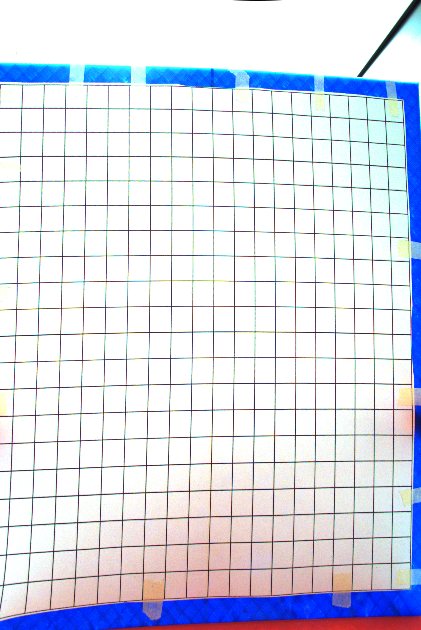
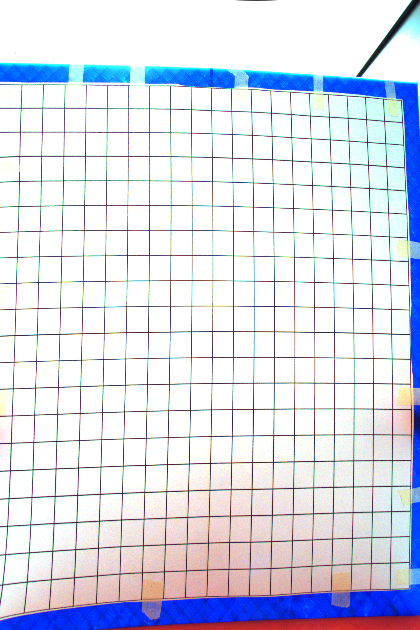
feat: draw in dots

diff --git a/ocv-calib.py b/ocv-calib.py
@@ -130,7 +130,7 @@ print(translation_vectors)
 # (2) ENTZERRUNG EINES EINGABE BILDES
 # -----------------------------------
 
-image_name = "240500013_markings_rotated.png" # 240500013_markings_rotated.png
+image_name = "240500013_markings.png" # vorher 240500013_markings_rotated.png
 img_path = os.path.join(in_folder, image_name)
 print(img_path)
 
@@ -237,7 +237,7 @@ def get_multiple_projections(points_with_depth):
 # Beispielaufruf für die Funktion get_multiple_projections
 points_with_depth = [(2090, 1940, 171), (211, 344, 171)]
 # Ausgabe bereits hier
-multiple_points_result = get_multiple_projections(points_with_depth)
+#multiple_points_result = get_multiple_projections(points_with_depth)
 
 # --------------------------------------------------------------
 
@@ -283,5 +283,44 @@ extracted_uv_points = get_uv_points_from_reknow_file(file_path)
 # ***
 
 # Berechnung der Projektionen
-#calculated_projections = get_multiple_projections(extracted_uv_points)
+calculated_projections = get_multiple_projections(extracted_uv_points)
 
+
+
+
+
+
+
+
+
+
+# Rückprojektion der 3D-Punkte auf 2D
+def project_points(points, intrinsic, distortion):
+    rvec = tvec = np.array([0.0, 0.0, 0.0])
+    projected_points, _ = cv2.projectPoints(points, rvec, tvec, intrinsic, distortion)
+    return projected_points
+
+# 3D-Punkte in ein NumPy-Array umwandeln
+points_3d = np.array(calculated_projections)
+
+# 3D-Punkte auf 2D-Punkte projizieren
+projected_points = project_points(points_3d, cam_matrix, distortion_coeff)
+projected_points = projected_points.reshape(-1, 2)
+
+# Bild laden
+image_name = "240500013_markings.png"
+img_path = os.path.join(in_folder, image_name)
+img = cv2.imread(img_path)
+
+# Zeichne die projizierten Punkte auf das Bild
+for point in projected_points:
+    cv2.circle(img, (int(point[0]), int(point[1])), 5, (0, 255, 0), -1)
+
+# Ergebnis speichern und anzeigen
+output_image_path = os.path.join(out_folder, 'marked_' + image_name)
+cv2.imwrite(output_image_path, img)
+
+cv2.namedWindow('marked_img', cv2.WINDOW_NORMAL)
+cv2.imshow('marked_img', img)
+cv2.waitKey(0)
+cv2.destroyAllWindows()
